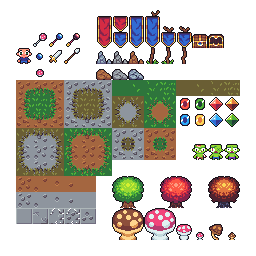
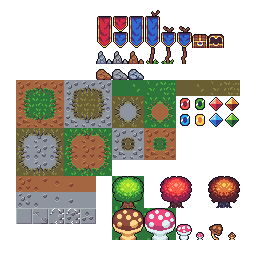
Added collition and changed the map.

diff --git a/src/tile/TileManager.java b/src/tile/TileManager.java
@@ -9,12 +9,12 @@ import java.io.*;
 
 public class TileManager {
     GamePanel gp;
-    Tile[] tile;
-    int[][] mapTileNum;
+    public Tile[] tile;
+    public int[][] mapTileNum;
 
     public TileManager(GamePanel gp) {
         this.gp = gp;
-        tile = new Tile[10];
+        tile = new Tile[100];
         mapTileNum = new int[gp.maxWorldCol][gp.maxWorldRow];
 
         getTileImage();
@@ -27,30 +27,52 @@ public class TileManager {
 
             BufferedImage img = ImageIO.read(getClass().getClassLoader().getResourceAsStream("tiles/tile-sheet.png"));
 
-            tile[0] = new Tile(); // GRASS
+            tile[0] = new Tile(); // GRASS [0]
             tile[0].image = img.getSubimage(32, 94, 16, 16);
 
-            tile[1] = new Tile(); // STONE
+            tile[1] = new Tile(); // STONE [1]
             tile[1].image = img.getSubimage(32, 142, 16, 16);
 
-            tile[2] = new Tile(); // DIRT
-            tile[2].image = img.getSubimage(80, 94, 16, 16);
+            tile[2] = new Tile(); // DIRT [2]
+            tile[2].image = img.getSubimage(86, 144, 16, 16);
 
-            // CHANGE
-            tile[3] = new Tile();
-            tile[3].image = img.getSubimage(80, 94, 16, 16);
+            tile[3] = new Tile(); // TREE [3]
+            tile[3].image = img.getSubimage(112, 176, 32, 32);
+            tile[3].collition = true;
 
-            tile[4] = new Tile();
-            tile[4].image = img.getSubimage(80, 94, 16, 16);
+            tile[4] = new Tile(); // MUSHROOM RED [4]
+            tile[4].image = img.getSubimage(144, 208, 32, 32);
+            tile[4].collition = true;
 
-            tile[5] = new Tile();
-            tile[5].image = img.getSubimage(80, 94, 16, 16);
+            tile[5] = new Tile(); // MUSHROOM BROWN [5]
+            tile[5].image = img.getSubimage(112, 208, 32, 32);
+            tile[5].collition = true;
 
+            // GRASS AND DIRT
+                // BOTTOM COMBINATION [6]
             tile[6] = new Tile();
-            tile[6].image = img.getSubimage(80, 94, 16, 16);
-
+            tile[6].image = img.getSubimage(33, 82, 16, 16);
+                // TOP COMBINATION [7]
             tile[7] = new Tile();
-            tile[7].image = img.getSubimage(80, 94, 16, 16);
+            tile[7].image = img.getSubimage(33, 110, 16, 16);
+                // LEFT COMBINATION [8]
+            tile[8] = new Tile();
+            tile[8].image = img.getSubimage(46, 97, 16, 16);
+                // RIGHT COMBINATION [9]
+            tile[9] = new Tile();
+            tile[9].image = img.getSubimage(18, 97, 16, 16);
+                // TOP-RIGHT COMBINATION [10]
+            tile[10] = new Tile();
+            tile[10].image = img.getSubimage(64, 130, 16, 16);
+            // TOP-LEFT COMBINATION [11]
+            tile[11] = new Tile();
+            tile[11].image = img.getSubimage(18, 97, 16, 16);
+            // BOTTOM-RIGHT COMBINATION [12]
+            tile[12] = new Tile();
+            tile[12].image = img.getSubimage(18, 97, 16, 16);
+            // BOTTOM-LEFT COMBINATION [13]
+            tile[13] = new Tile();
+            tile[13].image = img.getSubimage(18, 97, 16, 16);
         } catch (IOException e) {
             e.printStackTrace();
         }

diff --git a/src/game/CollisionChecker.java b/src/game/CollisionChecker.java
@@ -1,0 +1,62 @@
+package game;
+
+import entity.Entity;
+
+public class CollisionChecker {
+
+    private final GamePanel gp;
+
+    public CollisionChecker(GamePanel gp) {
+        this.gp = gp;
+    }
+
+    public void collisionCheck(Entity entity) {
+        int entityLeftWolrldX = entity.worldX + entity.solidArea.x;
+        int entityRightWolrldX = entity.worldX + entity.solidArea.x + entity.solidArea.width;
+        int entityTopWolrldY = entity.worldY + entity.solidArea.y;
+        int entityBottomWorldY = entity.worldY + entity.solidArea.y + entity.solidArea.height;
+
+        int entityLeftCol = entityLeftWolrldX/gp.tileSize;
+        int entityRightCol = entityRightWolrldX/gp.tileSize;
+        int entityTopRow = entityTopWolrldY/gp.tileSize;
+        int entityBottomRow = entityBottomWorldY/gp.tileSize;
+
+        int tileNum1, tileNum2;
+
+        switch (entity.direction) {
+            case "up":
+                entityTopRow = (entityTopWolrldY - entity.speed)/gp.tileSize;
+                tileNum1 = gp.tileManager.mapTileNum[entityLeftCol][entityTopRow];
+                tileNum2 = gp.tileManager.mapTileNum[entityRightCol][entityTopRow];
+                if (gp.tileManager.tile[tileNum1].collition == true || gp.tileManager.tile[tileNum2].collition == true){
+                    entity.collisionOn = true;
+                }
+                break;
+            case "down":
+                entityBottomRow = (entityBottomWorldY + entity.speed)/gp.tileSize;
+                tileNum1 = gp.tileManager.mapTileNum[entityLeftCol][entityBottomRow];
+                tileNum2 = gp.tileManager.mapTileNum[entityRightCol][entityBottomRow];
+                if (gp.tileManager.tile[tileNum1].collition == true || gp.tileManager.tile[tileNum2].collition == true){
+                    entity.collisionOn = true;
+                }
+            break;
+            case "left":
+                entityLeftCol = (entityLeftWolrldX - entity.speed)/gp.tileSize;
+                tileNum1 = gp.tileManager.mapTileNum[entityLeftCol][entityTopRow];
+                tileNum2 = gp.tileManager.mapTileNum[entityLeftCol][entityBottomRow];
+                if (gp.tileManager.tile[tileNum1].collition == true || gp.tileManager.tile[tileNum2].collition == true){
+                    entity.collisionOn = true;
+                }
+                break;
+            case "right":
+                entityRightCol = (entityRightWolrldX + entity.speed)/gp.tileSize;
+                tileNum1 = gp.tileManager.mapTileNum[entityRightCol][entityTopRow];
+                tileNum2 = gp.tileManager.mapTileNum[entityRightCol][entityBottomRow];
+                if (gp.tileManager.tile[tileNum1].collition == true || gp.tileManager.tile[tileNum2].collition == true){
+                    entity.collisionOn = true;
+                }
+                break;
+
+        }
+    }
+}

diff --git a/src/entity/Player.java b/src/entity/Player.java
@@ -11,8 +11,6 @@ import java.io.IOException;
 public class Player extends Entity {
     GamePanel gp;
     KeyHandler keyHandler;
-    String direction;
-
     public final int screenX;
     public final int screenY;
     public Player(GamePanel gp, KeyHandler keyH) {
@@ -22,6 +20,8 @@ public class Player extends Entity {
 
         screenX = gp.screenWidth / 2 - (gp.tileSize);
         screenY = gp.screenHeight / 2 - (gp.tileSize);
+
+        solidArea = new Rectangle(40, 55, 16, 16);
 
         setDefaultValues();
         getPlayerImage();
@@ -81,16 +81,25 @@ public class Player extends Entity {
         if (keyHandler.upPressed || keyHandler.leftPressed || keyHandler.rightPressed || keyHandler.downPressed) {
             if (keyHandler.upPressed) {
                 direction = "up";
-                worldY -= speed;
             } else if (keyHandler.downPressed) {
                 direction = "down";
-                worldY += speed;
             } else if (keyHandler.leftPressed) {
                 direction = "left";
-                worldX -= speed;
-            } else {
+            } else if (keyHandler.rightPressed) {
                 direction = "right";
-                worldX += speed;
+            }
+
+            collisionOn = false;
+            gp.cChecker.collisionCheck(this);
+
+            // CHECK COLLISION, FALSE MEANS MOVING
+            if (collisionOn == false) {
+                switch (direction) {
+                    case "up": worldY -= speed; break;
+                    case "down": worldY += speed;break;
+                    case "left": worldX -= speed; break;
+                    case "right":  worldX += speed; break;
+                }
             }
 
             spriteCounter++;
@@ -120,7 +129,6 @@ public class Player extends Entity {
                 images = walkRight[spriteNumber];
                 break;
         }
-        images = Scalr.resize(images, 100, 100); // RESIZE SPRITE
-        g2d.drawImage(images, screenX, screenY, null);
+        g2d.drawImage(images, screenX, screenY, 96, 96, null);
     }
 }

diff --git a/src/game/GamePanel.java b/src/game/GamePanel.java
@@ -29,12 +29,13 @@ public class GamePanel extends JPanel implements Runnable {
     TileManager tileManager = new TileManager(this);
     KeyHandler keyHandler = new KeyHandler();
     Thread gameThread;
+    public CollisionChecker cChecker = new CollisionChecker(this);
     public Player player = new Player(this, keyHandler);
 
 
     public GamePanel() {
         setPreferredSize(new Dimension(screenWidth, screenHeight));
-        setBackground(Color.WHITE);
+        setBackground(Color.BLACK);
         setDoubleBuffered(true);
         addKeyListener(keyHandler);
         setFocusable(true);

diff --git a/src/entity/Entity.java b/src/entity/Entity.java
@@ -1,14 +1,18 @@
 package entity;
 
+import java.awt.*;
 import java.awt.image.BufferedImage;
 
 public class Entity {
     public int worldX, worldY;
     public int speed;
+    public String direction;
     BufferedImage[] walkUp;
     BufferedImage[] walkDown;
     BufferedImage[] walkLeft;
     BufferedImage[] walkRight;
     int spriteCounter = 0;
     int spriteNumber = 0;
+    public Rectangle solidArea;
+    public boolean collisionOn = false;
 }
